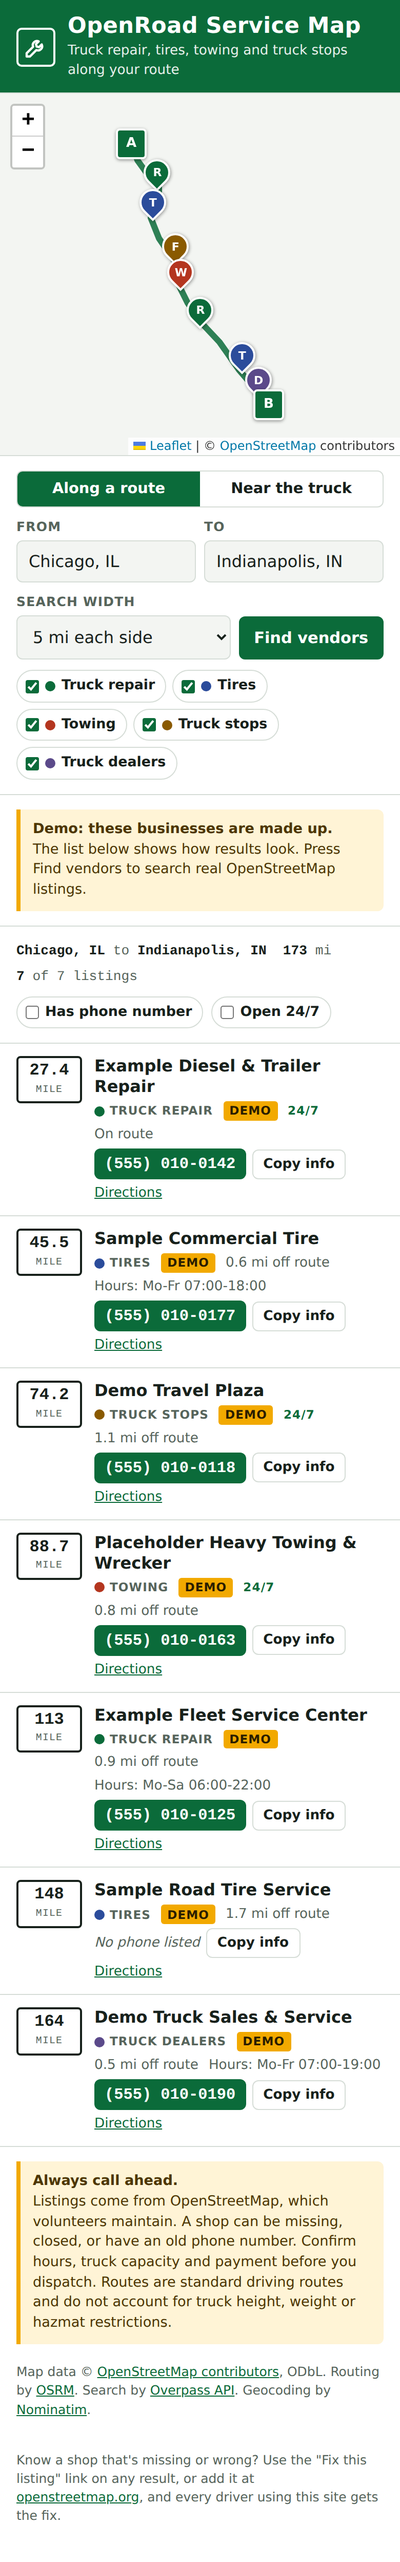
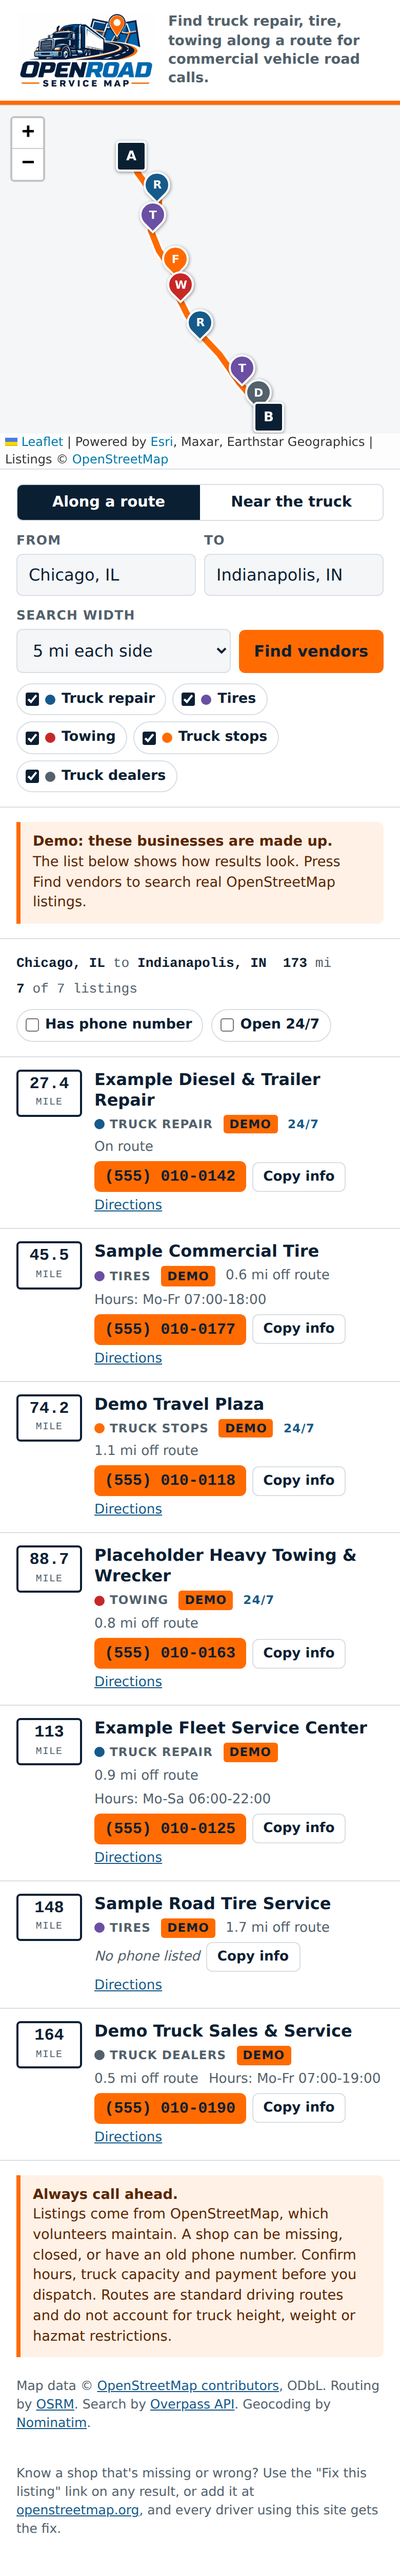
Shorten map credits and refresh README screenshots
Claude-Session: https://claude.ai/code/session_0134BwgEtHejD4CoadjYPrJ5

diff --git a/index.html b/index.html
@@ -920,7 +920,7 @@ input[type="text"], select { font: 400 1rem var(--font-body); color: var(--fg); 
   L.layerGroup([
     L.tileLayer(ESRI + "World_Imagery/MapServer/tile/{z}/{y}/{x}", {
       maxZoom: 20, maxNativeZoom: 19, detectRetina: true,
-      attribution: 'Powered by <a href="https://www.esri.com/">Esri</a> | Imagery: Esri, Maxar, Earthstar Geographics, and the GIS User Community | Listings &copy; <a href="https://www.openstreetmap.org/copyright">OpenStreetMap</a> contributors',
+      attribution: 'Powered by <a href="https://www.esri.com/">Esri</a>, Maxar, Earthstar Geographics | Listings &copy; <a href="https://www.openstreetmap.org/copyright">OpenStreetMap</a>',
     }),
     L.tileLayer(ESRI + "Reference/World_Transportation/MapServer/tile/{z}/{y}/{x}", { maxZoom: 20, maxNativeZoom: 19 }),
     L.tileLayer(ESRI + "Reference/World_Boundaries_and_Places/MapServer/tile/{z}/{y}/{x}", { maxZoom: 20, maxNativeZoom: 19 }),
